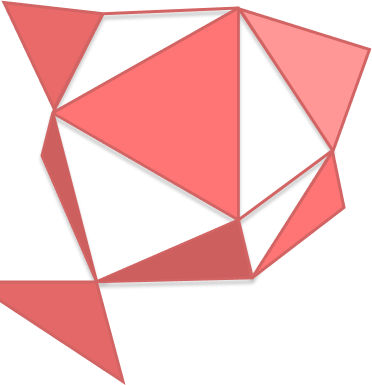
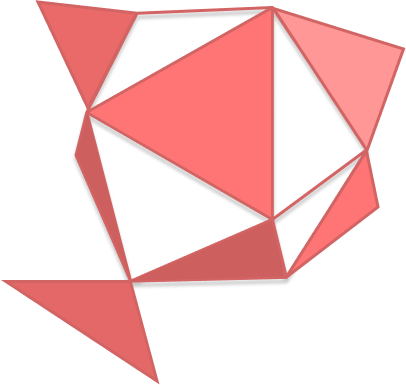
img changes

diff --git a/styles/styles.css b/styles/styles.css
@@ -93,7 +93,7 @@ p {
     /* margin: 24vh auto; */
     z-index: 0;
     /* position: absolute; */
-    /* transform-origin: center; */
+    transform-origin: center;
 }
 
 section {
@@ -111,7 +111,7 @@ section {
 }
 
 .apple02 {
-    width: 31vh;
+    width: 33vh;
     padding-right: 3vh;
 }
 
@@ -134,27 +134,33 @@ section {
 }
 
 .apple06 {
-    width: 33vh;
+    width: 34vh;
     padding-top: 1vh;
     padding-right: 5vh;
 }
 
 .apple07 {
-    width: 36vh;
-    padding-top: 4vh;
-    padding-right: 5vh;
+    width: 47vh;
+    padding-top: 5vh;
+    padding-right: 11vh;
 }
 
 .apple08 {
-    width: 30vh;
+    width: 49vh;
+    padding-top: 6vh;
+    padding-right: 13vh;
 }
 
 .apple09 {
-    width: 30vh;
+    width: 51vh;
+    padding-top: 5vh;
+    padding-right: 13vh;
 }
 
 .apple10 {
-    width: 30vh;
+    width: 45vh;
+    padding-top: 2vh;
+    padding-right: 13vh;
 }
 
 

diff --git a/javascript/main.js b/javascript/main.js
@@ -12,7 +12,7 @@ appleBtn.onclick = () => {
     switch (steps) {
         case 2:
             console.log(steps);
-            imgApple.src = imgApple.src.replace(/01/g,'02')
+            imgApple.src = imgApple.src.replace(/01.png/g,'02.svg')
             imgApple.classList.toggle('img_apple')
             imgApple.classList.toggle('apple02')
             steps++
